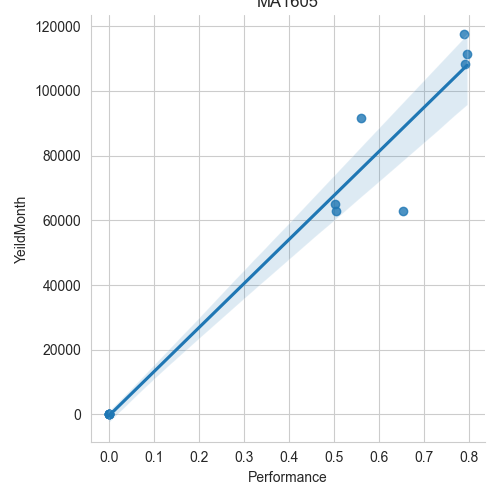
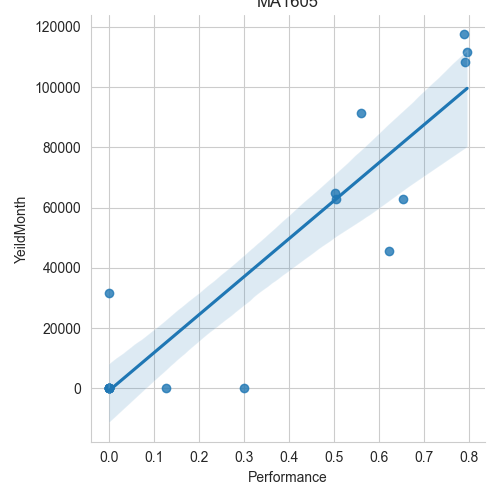
add filter by date

diff --git a/AlarmReportWeb/dataview/templates/pages/chart.html b/AlarmReportWeb/dataview/templates/pages/chart.html
@@ -4,6 +4,22 @@
     Draw Chart Page
 {% endblock %}
 
+{% block style %}
+    <style>
+        .table-wrapper {
+            width: 100%;
+            max-height: 450px;
+            overflow-y: scroll;
+            overflow-x: auto;
+            display: inline-block;
+        }
+        .table-wrapper td {
+            white-space: nowrap;
+        }
+
+    </style>
+{% endblock %}
+
 {% block content %}
 
 <div class="row" style="margin-top: 15px;">
@@ -19,6 +35,15 @@
                     </label>
                     {% endfor %}
                 </div>
+                <hr>
+                <div class="">
+                    <h5>Select date:</h5>
+                    <label for="datepicker">From:</label>
+                    <input type="date" name="from_date" id="datepicker" value="{{from_to_date.fromDate}}" class="form-control">
+                    <label for="datepicker2">To:</label>
+                    <input type="date" name="to_date" id="datepicker2" value="{{from_to_date.toDate}}" class="form-control">
+                    <input class="btn  btn-success" type="submit" value="Filter">                   
+                </div>
             </form>
         </div>
     </div>
@@ -27,9 +52,9 @@
             {% load static %}
             {% for m in mapList %}
             <div class="row" style="max-height: 500px;">
-                <div class="col-4">
+                <div class="col-5">
                     <h5>{{m.machine}}</h5>
-                    <table class="table">
+                    <table class="table table-wrapper">
                         <thead>
                             <tr>
                                 {% for th in m.table.th %}
@@ -57,6 +82,7 @@
                     <img src="{% static 'chart' %}/{{m.machine}}.png" alt="No Chart" sizes="60px" class="img-fluid">
                 </div>
             </div>
+            <hr style="color: black;">
             {% endfor %}    
         </div>
     </div>

diff --git a/AlarmReportWeb/dataview/templates/pages/base.html b/AlarmReportWeb/dataview/templates/pages/base.html
@@ -15,6 +15,16 @@
         a.nav-link {
             margin-left: 10px;
         }
+        
+        input[type='date']{
+            margin-bottom: 10px;
+            display: block;
+            width: 100%;
+        }
+
+        input[type='date']:hover{
+            cursor: pointer;
+        }
     </style>
     {% block style %}
     {% endblock %}
@@ -49,12 +59,12 @@
                 </a>
                 <div class="dropdown-menu">
                     <a class="dropdown-item" href="/dataview/chart">Chart v1</a>
-                    <a class="dropdown-item" href="/dataview/chartv2">Chart v2</a>
+                    <a class="dropdown-item" href="/dataview/chart_v2">Chart v2</a>
                 </div>
             </li>
-            <li class="nav-item">
+            {% comment %} <li class="nav-item">
                 <a class="nav-link btn btn-outline-warning" href="/dataview/chart_v2">Chart v2</a>
-            </li>
+            </li> {% endcomment %}
 
         </ul>
     </nav>

diff --git a/AlarmReportWeb/dataview/templates/pages/error.html b/AlarmReportWeb/dataview/templates/pages/error.html
@@ -1,0 +1,22 @@
+{% extends 'pages/base.html' %}
+
+{% block title %}
+Error Page
+{% endblock title %}
+
+{% block content %}
+
+    <div class="jumbotron jumbotron-fluid justify-content-center">
+        <div class="container">
+            <h1 class="display-3">Error Page</h1>
+            <p class="lead">Error Message:</p>
+            <hr class="my-2">
+            <h4 class="text-danger">{{message}}</h4>
+            <br>
+            <p class="lead">
+                <a class="btn btn-primary" href="/dataview/{{from}}" role="button">Go Back</a>
+            </p>
+        </div>
+    </div>
+
+{% endblock content %}

diff --git a/AlarmReportWeb/dataview/views.py b/AlarmReportWeb/dataview/views.py
@@ -1,9 +1,9 @@
 from django.shortcuts import render
 from django.http import HttpResponse, HttpResponseRedirect
-from .forms import FileForm, YmFileForm
+from .forms import DateFilter, FileForm, YmFileForm
 import pandas as pd
 # utils modules
-from .caculate.cal_occupancy_rate import summary_performace_by_day
+from .caculate.cal_occupancy_rate import check_file_name, summary_performace_by_day
 from .caculate.convert import convert_df_to_table
 from .caculate.ym_and_chart import get_machine_list_to_show, load_data_for_chart_v2_by_machine, load_performance_to_view,load_ym_to_view ,read_ym_to_Df, save_ym_to_excel, save_performance_to_excel, map_performance_ym_by_date
 # Create your views here.
@@ -13,12 +13,20 @@ def index(request):
 
 def chart(request):
     selected = []
+    from_to_date = {
+        'fromDate': '',
+        'toDate': ''
+    }
     if request.method == 'POST':
         selected = request.POST.getlist('machine')
-        print(selected)
+        # print(selected)
+        from_to_date['fromDate'] = request.POST['from_date']
+        from_to_date['toDate'] = request.POST['to_date']
+
+    # filter from-to date
     # Get mapping by date from machine perfornamce and yeild month
     machineList = get_machine_list_to_show()
-    mapList = map_performance_ym_by_date(selected)
+    mapList = map_performance_ym_by_date(selected, from_to_date = from_to_date)
 
     resultList = [] # list of dict {'machine': machineName, 'table': mapTable}
     if len(mapList):
@@ -29,7 +37,10 @@ def chart(request):
                 'table': table
             })
     # print(mapData)
-    return render(request, 'pages/chart.html', context={"machine": machineList, "selected": selected, 'mapList': resultList})
+
+    # dateForm = DateFilter()
+
+    return render(request, 'pages/chart.html', context={"machine": machineList, "selected": selected, 'mapList': resultList, 'from_to_date': from_to_date})
 
 def chart_v2(request):
     machineList = get_machine_list_to_show()
@@ -56,6 +67,12 @@ def load_alarm_file(request):
         # bind data to form
         form = FileForm(request.POST, request.FILES)
         alarmFiles = request.FILES.getlist('alarmFiles')  
+        # Check Alarm File Name
+        checkFileName = check_file_name(alarmFiles)
+
+        if checkFileName['error']:
+            return render(request, 'pages/error.html', {'message': checkFileName['message'], 'from': 'loaddata'})
+
         # print(alarmFiles)
         tableList = []
         if len(alarmFiles):
@@ -115,13 +132,18 @@ def load_yeild_month(request):
 def get_summary(request):
     # By default, print performance
     select = 'performance'
+    from_to_date = {
+        'fromDate': '',
+        'toDate': ''
+    }
     if request.method == 'POST':
         select = request.POST['summarySelect']
-        print(select)
+        from_to_date['fromDate'] = request.POST['from_date']
+        from_to_date['toDate'] = request.POST['to_date']
 
-    summaryDf = load_performance_to_view() if select == "performance" else load_ym_to_view()
+    summaryDf = load_performance_to_view(from_to_date = from_to_date) if select == "performance" else load_ym_to_view(from_to_date = from_to_date)
     
     table = convert_df_to_table(summaryDf)
 
     # print(table)
-    return render(request, 'pages/summary.html', {'table': table, 'select': select})
+    return render(request, 'pages/summary.html', {'table': table, 'select': select, 'from_to_date': from_to_date})

diff --git a/AlarmReportWeb/dataview/caculate/ym_and_chart.py b/AlarmReportWeb/dataview/caculate/ym_and_chart.py
@@ -30,14 +30,17 @@ def save_performance_to_excel(filePath = summaryFilePath,oneDayPerformance = {})
 
         return
 
-def load_performance_to_view(filePath = summaryFilePath):
+def load_performance_to_view(filePath = summaryFilePath, from_to_date={'fromDate':'', 'toDate': ''}):
     # print(filePath)
     summaryDf = pd.read_excel(filePath)
     summaryDf[dateCol] = pd.to_datetime(summaryDf[dateCol]).dt.date
-    # summaryDict = summaryDf.to_dict('list')
-    #    
-    # return as DataFrame
-    return summaryDf
+
+    # filter by from_to_date
+    fromDate = pd.to_datetime(from_to_date['fromDate']).date() if from_to_date['fromDate'] != '' else summaryDf.iloc[0][dateCol]
+
+    toDate = pd.to_datetime(from_to_date['toDate']).date() if from_to_date['toDate'] != '' else summaryDf.iloc[-1][dateCol]
+
+    return summaryDf[summaryDf[dateCol] >= fromDate][summaryDf[dateCol] <= toDate]
 
 # Read Yeild Month File and return DataFrame
 def read_ym_to_Df(filePath):
@@ -59,18 +62,24 @@ def save_ym_to_excel(ymDf):
     ymDf.to_excel(ymFilePath, index = False)
     return
 
-def load_ym_to_view(filePath = ymFilePath):
+def load_ym_to_view(filePath = ymFilePath, from_to_date = {'fromDate': '', 'toDate': ''}):
     ymDf = pd.read_excel(filePath)
     ymDf[dateCol] = pd.to_datetime(ymDf[dateCol]).dt.date
-    return ymDf
+
+    fromDate = pd.to_datetime(from_to_date['fromDate']).date() if from_to_date['fromDate'] != '' else ymDf.iloc[0][dateCol]
+    toDate = pd.to_datetime(from_to_date['toDate']).date() if from_to_date['toDate'] != '' else ymDf.iloc[-1][dateCol]
+
+    return ymDf[ymDf[dateCol] >= fromDate][ymDf[dateCol] <= toDate]
 
 def get_machine_list_to_show():
     return list(load_ym_to_view().columns)[1:]
 
 # Mapping Machine performance and Yeild Month by Date
-def map_performance_ym_by_date(selectedMachine = []):
+# 15/04 --> add filter from-to date
+def map_performance_ym_by_date(selectedMachine = [], from_to_date = {'fromDate': '', 'toDate': ''}):
     
-    performanceDf = load_performance_to_view()
+    # filter from_to_date
+    performanceDf = load_performance_to_view(from_to_date = from_to_date)
     ymDf = load_ym_to_view()
     # machineList = list(ymDf.columns)[1:]
     # print(machineList)

diff --git a/AlarmReportWeb/dataview/caculate/cal_occupancy_rate.py b/AlarmReportWeb/dataview/caculate/cal_occupancy_rate.py
@@ -5,7 +5,7 @@ import pandas as pd
 import numpy as np
 from datetime import datetime
 # from readLog import caculate_performance
-from .const import sourceCol, timeCol, messageCol, alarmFolder, severityCol, summaryFilePath, dateCol
+from .const import sourceCol, timeCol, messageCol, alarmFolder, severityCol, summaryFilePath, dateCol, alarmFileHead
 
 # listObject = os.listdir(alarmFolder)
 # filePath = alarmFolder + '/' + listObject[-5]
@@ -182,9 +182,21 @@ def summary_performance_by_month(listFile):
     print(monthSummaryDf)
     return monthSummaryDf
 
-# monthSumDf = summary_performance_by_month(listObject)
-# excelOutputFilePath = outputFolder + 'Performance Of Machine 3-2022.xlsx'
-# monthSumDf.to_excel(excelOutputFilePath, sheet_name="03.2022", index=False)
 
-# filePath = filePath = alarmFolder + '/' + listObject[0]
-# summary_performace_by_day(filePath)
+# Check Alarm File name --> Incorrect return Error Message
+def check_file_name(filePaths):
+    # Check Alarm File name
+    print(filePaths)
+    filenameStr = [str(f) for f in filePaths]
+
+    for fStr in filenameStr:
+        if fStr.startswith(alarmFileHead) == False:
+            return {
+                'error': True,
+                'message': 'Invalid Alarm Report File Name!!!'
+            }
+
+    return {
+        'error': False,
+        'message': 'No Error'
+    }

diff --git a/AlarmReportWeb/dataview/forms.py b/AlarmReportWeb/dataview/forms.py
@@ -12,3 +12,6 @@ class YmFileForm(forms.Form):
     # No Label, No Multilpe
     yieldmonth = forms.FileField(max_length=200)
 
+class DateFilter(forms.Form):
+    date_from = forms.DateInput()
+    date_to = forms.DateInput()

diff --git a/AlarmReportWeb/dataview/caculate/const.py b/AlarmReportWeb/dataview/caculate/const.py
@@ -19,3 +19,6 @@ m3601Col = "M3601"
 ma1605Col = "MA1605"
 ma2605Col = "MA2605"
 ymFilePath = os.getcwd() + "/dataview/outputs/ym_summary.xlsx"
+
+# FileName check
+alarmFileHead = "Denka Alarm Daily Report"
